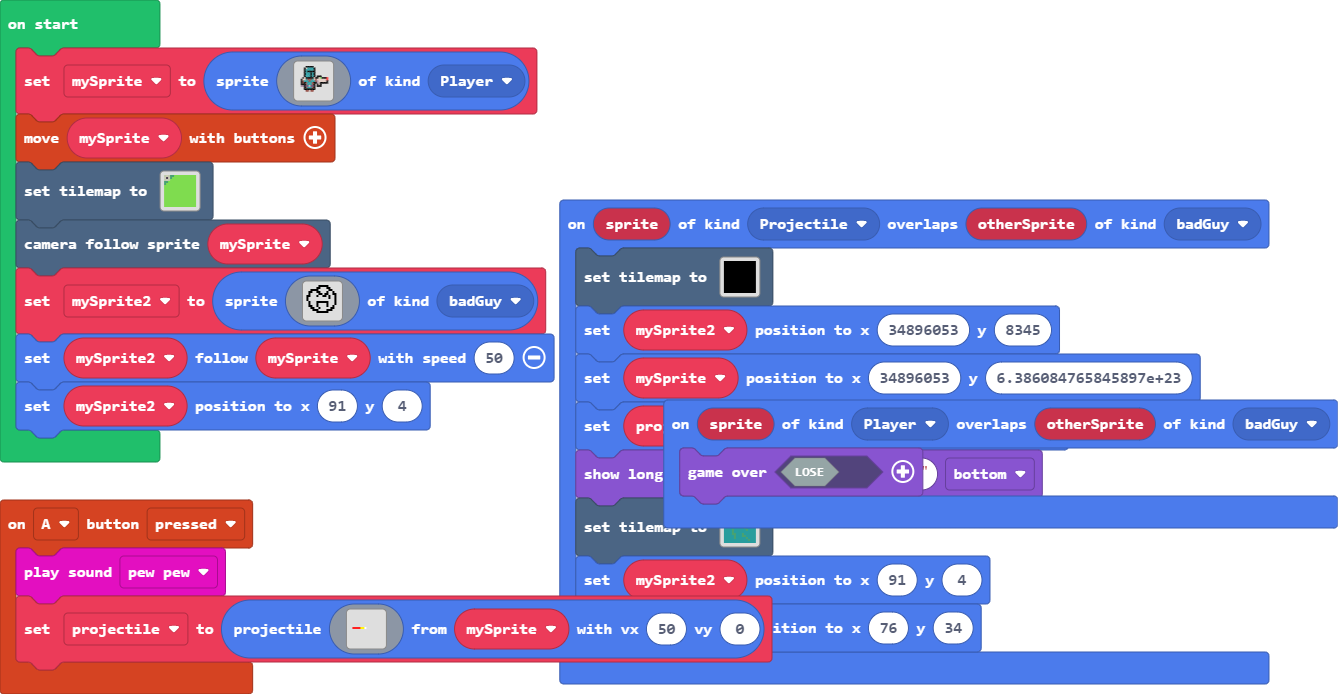
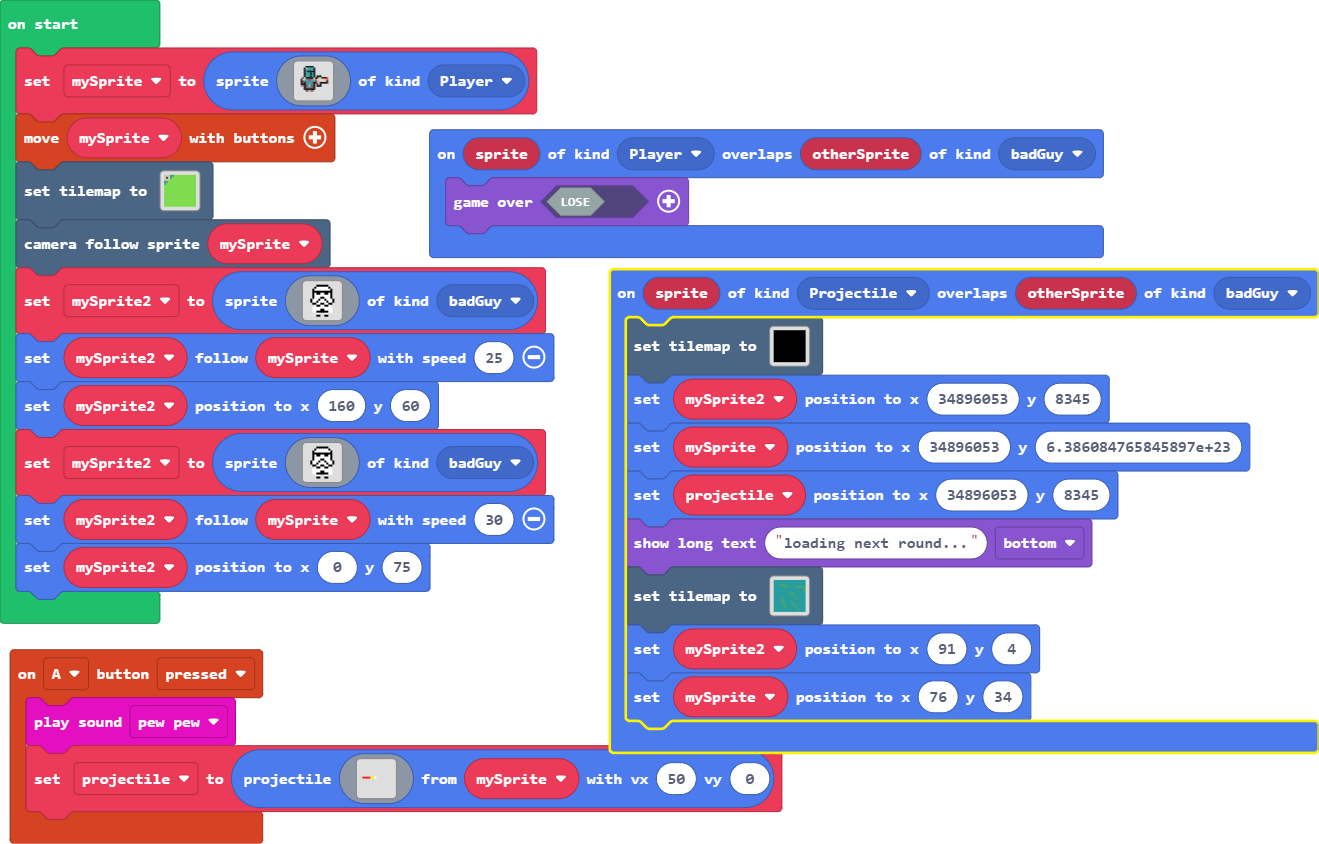
Update main.blocks, main.ts, images.g.jres, images.g.ts

diff --git a/images.g.ts b/images.g.ts
@@ -42,22 +42,58 @@ namespace myImages {
 . . . . . . . . . . . . . . . . 
 `;
             case "image3":return img`
-. . . . . . f f f f f . . . . . 
-. . . . . f f . . . f f . . . . 
-. . f f f f . . . . . f f . . . 
-. f f . . f f . . . f . . f . . 
-. f . . . . f f . f f . . f f . 
-f f . . . f . . f f . f . . f . 
-f . . . . . . . . . . f . . f . 
-f . . . . . . . . . . . . . f . 
-. f . . . f f f f f f . . . f . 
-. f . . . f . . . . f . . . f . 
-. f f . . f . . . . f . . f . . 
-. . f f . . f . . . . . f f . . 
-. . . f f f . . . . f f f . . . 
 . . . . . f f f f f f . . . . . 
-. . . . . . . . . . . . . . . . 
-. . . . . . . . . . . . . . . . 
+. . . . f 1 1 1 1 1 1 f . . . . 
+. . . f 1 1 1 1 1 1 1 1 f . . . 
+. . . f f f f f f f f f f . . . 
+. . . f 1 f f 1 1 f f 1 f . . . 
+. . . f 1 1 1 1 1 1 1 1 f . . . 
+. . . f 1 1 1 f f 1 1 1 f . . . 
+. . f 1 1 1 f 1 1 f 1 1 1 f . . 
+. . f 1 1 f 1 1 1 1 f 1 1 f . . 
+. . . f f 1 1 f f 1 1 f f . . . 
+. . . . 1 f f 1 1 f f 1 . . . . 
+. . . 1 1 1 1 1 1 1 1 1 1 . . . 
+. . . 1 1 1 1 f f 1 1 1 1 . . . 
+. . . 1 1 f f f f f f 1 1 . . . 
+. . . . . 1 1 . . 1 1 . . . . . 
+. . . . . f f . . f f . . . . . 
+`;
+            case "image4":return img`
+. . . . . f f f f f f . . . . . 
+. . . . f 1 1 1 1 1 1 f . . . . 
+. . . f 1 1 1 1 1 1 1 1 f . . . 
+. . . f f f f f f f f f f . . . 
+. . . f 1 f f 1 1 f f 1 f . . . 
+. . . f 1 1 1 1 1 1 1 1 f . . . 
+. . . f 1 1 1 f f 1 1 1 f . . . 
+. . f 1 1 1 f 1 1 f 1 1 1 f . . 
+. . f 1 1 f 1 1 1 1 f 1 1 f . . 
+. . . f f 1 1 f f 1 1 f f . . . 
+. . . . 1 f f 1 1 f f 1 . . . . 
+. . . 1 1 1 1 1 1 1 1 1 1 . . . 
+. . . 1 1 1 1 f f 1 1 1 1 . . . 
+. . . 1 1 f f f f f f 1 1 . . . 
+. . . . . 1 1 . . 1 1 . . . . . 
+. . . . . f f . . f f . . . . . 
+`;
+            case "image5":return img`
+. . . . . f f f f f f . . . . . 
+. . . . f 1 1 1 1 1 1 f . . . . 
+. . . f 1 1 1 1 1 1 1 1 f . . . 
+. . . f f f f f f f f f f . . . 
+. . . f 1 f f 1 1 f f 1 f . . . 
+. . . f 1 1 1 1 1 1 1 1 f . . . 
+. . . f 1 1 1 f f 1 1 1 f . . . 
+. . f 1 1 1 f 1 1 f 1 1 1 f . . 
+. . f 1 1 f 1 1 1 1 f 1 1 f . . 
+. . . f f 1 1 f f 1 1 f f . . . 
+. . . . 1 f f 1 1 f f 1 . . . . 
+. . . 1 1 1 1 1 1 1 1 1 1 . . . 
+. . . 1 1 1 1 f f 1 1 1 1 . . . 
+. . . 1 1 f f f f f f 1 1 . . . 
+. . . . . 1 1 . . 1 1 . . . . . 
+. . . . . f f . . f f . . . . . 
 `;
         }
         return null;

diff --git a/main.ts b/main.ts
@@ -62,22 +62,42 @@ controller.moveSprite(mySprite)
 tiles.setTilemap(tilemap`level1`)
 scene.cameraFollowSprite(mySprite)
 mySprite2 = sprites.create(img`
-    . . . . . . f f f f f . . . . . 
-    . . . . . f f . . . f f . . . . 
-    . . f f f f . . . . . f f . . . 
-    . f f . . f f . . . f . . f . . 
-    . f . . . . f f . f f . . f f . 
-    f f . . . f . . f f . f . . f . 
-    f . . . . . . . . . . f . . f . 
-    f . . . . . . . . . . . . . f . 
-    . f . . . f f f f f f . . . f . 
-    . f . . . f . . . . f . . . f . 
-    . f f . . f . . . . f . . f . . 
-    . . f f . . f . . . . . f f . . 
-    . . . f f f . . . . f f f . . . 
     . . . . . f f f f f f . . . . . 
-    . . . . . . . . . . . . . . . . 
-    . . . . . . . . . . . . . . . . 
+    . . . . f 1 1 1 1 1 1 f . . . . 
+    . . . f 1 1 1 1 1 1 1 1 f . . . 
+    . . . f f f f f f f f f f . . . 
+    . . . f 1 f f 1 1 f f 1 f . . . 
+    . . . f 1 1 1 1 1 1 1 1 f . . . 
+    . . . f 1 1 1 f f 1 1 1 f . . . 
+    . . f 1 1 1 f 1 1 f 1 1 1 f . . 
+    . . f 1 1 f 1 1 1 1 f 1 1 f . . 
+    . . . f f 1 1 f f 1 1 f f . . . 
+    . . . . 1 f f 1 1 f f 1 . . . . 
+    . . . 1 1 1 1 1 1 1 1 1 1 . . . 
+    . . . 1 1 1 1 f f 1 1 1 1 . . . 
+    . . . 1 1 f f f f f f 1 1 . . . 
+    . . . . . 1 1 . . 1 1 . . . . . 
+    . . . . . f f . . f f . . . . . 
     `, SpriteKind.badGuy)
-mySprite2.follow(mySprite, 50)
-mySprite2.setPosition(91, 4)
+mySprite2.follow(mySprite, 25)
+mySprite2.setPosition(160, 60)
+mySprite2 = sprites.create(img`
+    . . . . . f f f f f f . . . . . 
+    . . . . f 1 1 1 1 1 1 f . . . . 
+    . . . f 1 1 1 1 1 1 1 1 f . . . 
+    . . . f f f f f f f f f f . . . 
+    . . . f 1 f f 1 1 f f 1 f . . . 
+    . . . f 1 1 1 1 1 1 1 1 f . . . 
+    . . . f 1 1 1 f f 1 1 1 f . . . 
+    . . f 1 1 1 f 1 1 f 1 1 1 f . . 
+    . . f 1 1 f 1 1 1 1 f 1 1 f . . 
+    . . . f f 1 1 f f 1 1 f f . . . 
+    . . . . 1 f f 1 1 f f 1 . . . . 
+    . . . 1 1 1 1 1 1 1 1 1 1 . . . 
+    . . . 1 1 1 1 f f 1 1 1 1 . . . 
+    . . . 1 1 f f f f f f 1 1 . . . 
+    . . . . . 1 1 . . 1 1 . . . . . 
+    . . . . . f f . . f f . . . . . 
+    `, SpriteKind.badGuy)
+mySprite2.follow(mySprite, 30)
+mySprite2.setPosition(0, 75)
